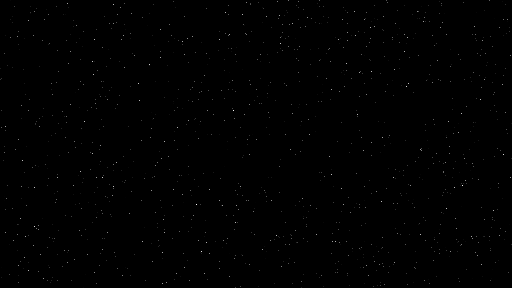
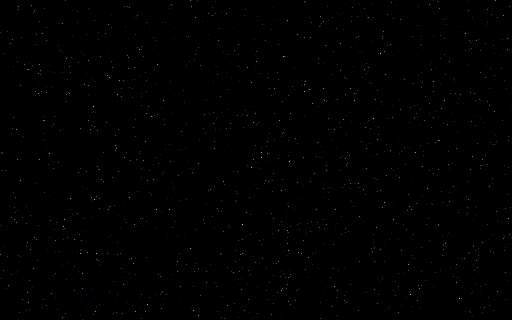
Implement Spikes, block sprite, goal block,

diff --git a/core/src/level/level.js b/core/src/level/level.js
@@ -5,6 +5,7 @@ import JumpPad from "../element/jumpPad"
 import MovingPlatform from "../element/movingPlatform"
 import SolidBlock from "../element/solidBlock"
 import TemporaryBlock from "../element/temporaryBlock"
+import Spike from "../element/spike"
 
 export default class Level {
     constructor(name, gravity, game) {
@@ -19,19 +20,31 @@ export default class Level {
         this.name = name
         //Todo initialise Level with Levelparser
         this.elementList.add(new Player(0, 0, this.game, this))
-        this.elementList.add(new SolidBlock(0, 256, 100, 1))
 
+        for (let i = 0; i <= 100; i++) {
+            this.elementList.add(new SolidBlock(0 + i * 32, 288, 1, 1))
+        }
+
+        this.elementList.add(new Spike(200 - 64, 224, 1, 1))
         this.elementList.add(new JumpPad(200, 224, 1, 1))
         this.elementList.add(new TemporaryBlock(232, 224, 1, 1))
         this.elementList.add(new Checkpoint(264, 224, this.game, 1, 1))
 
-        this.elementList.add(new SolidBlock(364, 128, 10, 1))
-        this.elementList.add(new SolidBlock(32, 96, 3, 1))
+        for (let i = 0; i <= 10; i++) {
+            this.elementList.add(new SolidBlock(364 + i * 32, 128, 1, 1))
+        }
 
-        this.elementList.add(new SolidBlock(250, 50, 3, 1))
+        for (let i = 0; i <= 3; i++) {
+            this.elementList.add(new SolidBlock(250 + i * 32, 128, 1, 1))
+        }
 
-        this.elementList.add(new SolidBlock(600, 32, 10, 1))
-        this.elementList.add(new SolidBlock(600, 0, 10, 1))
+        for (let i = 0; i <= 10; i++) {
+            this.elementList.add(new SolidBlock(600 + 32 * i, 32, 1, 1))
+        }
+
+        for (let i = 0; i <= 10; i++) {
+            this.elementList.add(new SolidBlock(600 + 32 * i, 0, 1, 1))
+        }
 
         this.elementList.add(new MovingPlatform(0, 224, 3, 1, 0, -2))
     }

diff --git a/core/src/element/solidBlock.js b/core/src/element/solidBlock.js
@@ -1,8 +1,11 @@
 import Element from "./element"
+import Sprite from "./sprite"
 
 export default class SolidBlock extends Element {
     constructor(x, y, relativeWidth = 1, relativeHeight = 1) {
         super(x, y, relativeWidth, relativeHeight)
+
+        this.sprite = new Sprite("tileset.png", this.width, this.height, 47, 48)
     }
 
     action() {}
@@ -77,10 +80,6 @@ export default class SolidBlock extends Element {
     }
 
     draw(ctx) {
-        ctx.beginPath()
-        ctx.rect(this.position.x, this.position.y, this.width, this.height)
-        ctx.fillStyle = "green"
-        ctx.fill()
-        ctx.closePath()
+        this.sprite.draw(ctx, 1, 1, this.position)
     }
 }

diff --git a/core/src/element/spike.js b/core/src/element/spike.js
@@ -1,0 +1,27 @@
+import Element from "./element"
+
+export default class Spike extends Element {
+    constructor(x, y, game, relativeWidth = 1, relativeHeight = 1) {
+        super(x, y + 7, relativeWidth, relativeHeight)
+    }
+
+    handleCollisionX(player) {
+        if (!player.isDead) {
+            player.die()
+        }
+    }
+
+    handleCollisionY(player) {
+        if (!player.isDead) {
+            player.die()
+        }
+    }
+
+    draw(ctx) {
+        ctx.beginPath()
+        ctx.rect(this.position.x, this.position.y, this.width, 25)
+        ctx.fillStyle = "white"
+        ctx.fill()
+        ctx.closePath()
+    }
+}

diff --git a/core/src/element/goal.js b/core/src/element/goal.js
@@ -1,0 +1,21 @@
+import Element from "./element"
+
+export default class Goal extends Element {
+    constructor(x, y, game, relativeWidth = 1, relativeHeight = 1) {
+        super(x, y, relativeWidth, relativeHeight)
+
+        this.game = game
+    }
+
+    handleCollisionX(player) {}
+
+    handleCollisionY(player) {}
+
+    draw(ctx) {
+        ctx.beginPath()
+        ctx.rect(this.position.x, this.position.y, this.width, this.height)
+        ctx.fillStyle = "blue"
+        ctx.fill()
+        ctx.closePath()
+    }
+}

diff --git a/core/src/game.js b/core/src/game.js
@@ -40,8 +40,8 @@ export default class Game {
         this.time = 0
 
         //this.shootingStar = new Sprite("shooting-star.png", 32, 64, 32, 64)
-        this.bg1 = new Sprite("bg/bg.png", 512, 288, 512, 288)
-        this.bg2 = new Sprite("bg/bg_layer_top.png", 512, 288, 512, 288)
+        this.bg1 = new Sprite("bg/bg.png", 512, 320, 512, 288)
+        this.bg2 = new Sprite("bg/bg_layer_top.png", 512, 320, 512, 288)
 
         this.particles = null
 

diff --git a/core/src/main.js b/core/src/main.js
@@ -6,7 +6,7 @@ const canvas = window.document.querySelector("canvas")
 const ctx = canvas.getContext("2d")
 
 canvas.width = 1024
-canvas.height = 576
+canvas.height = 640
 
 const game = new Game(canvas, ctx)
 
